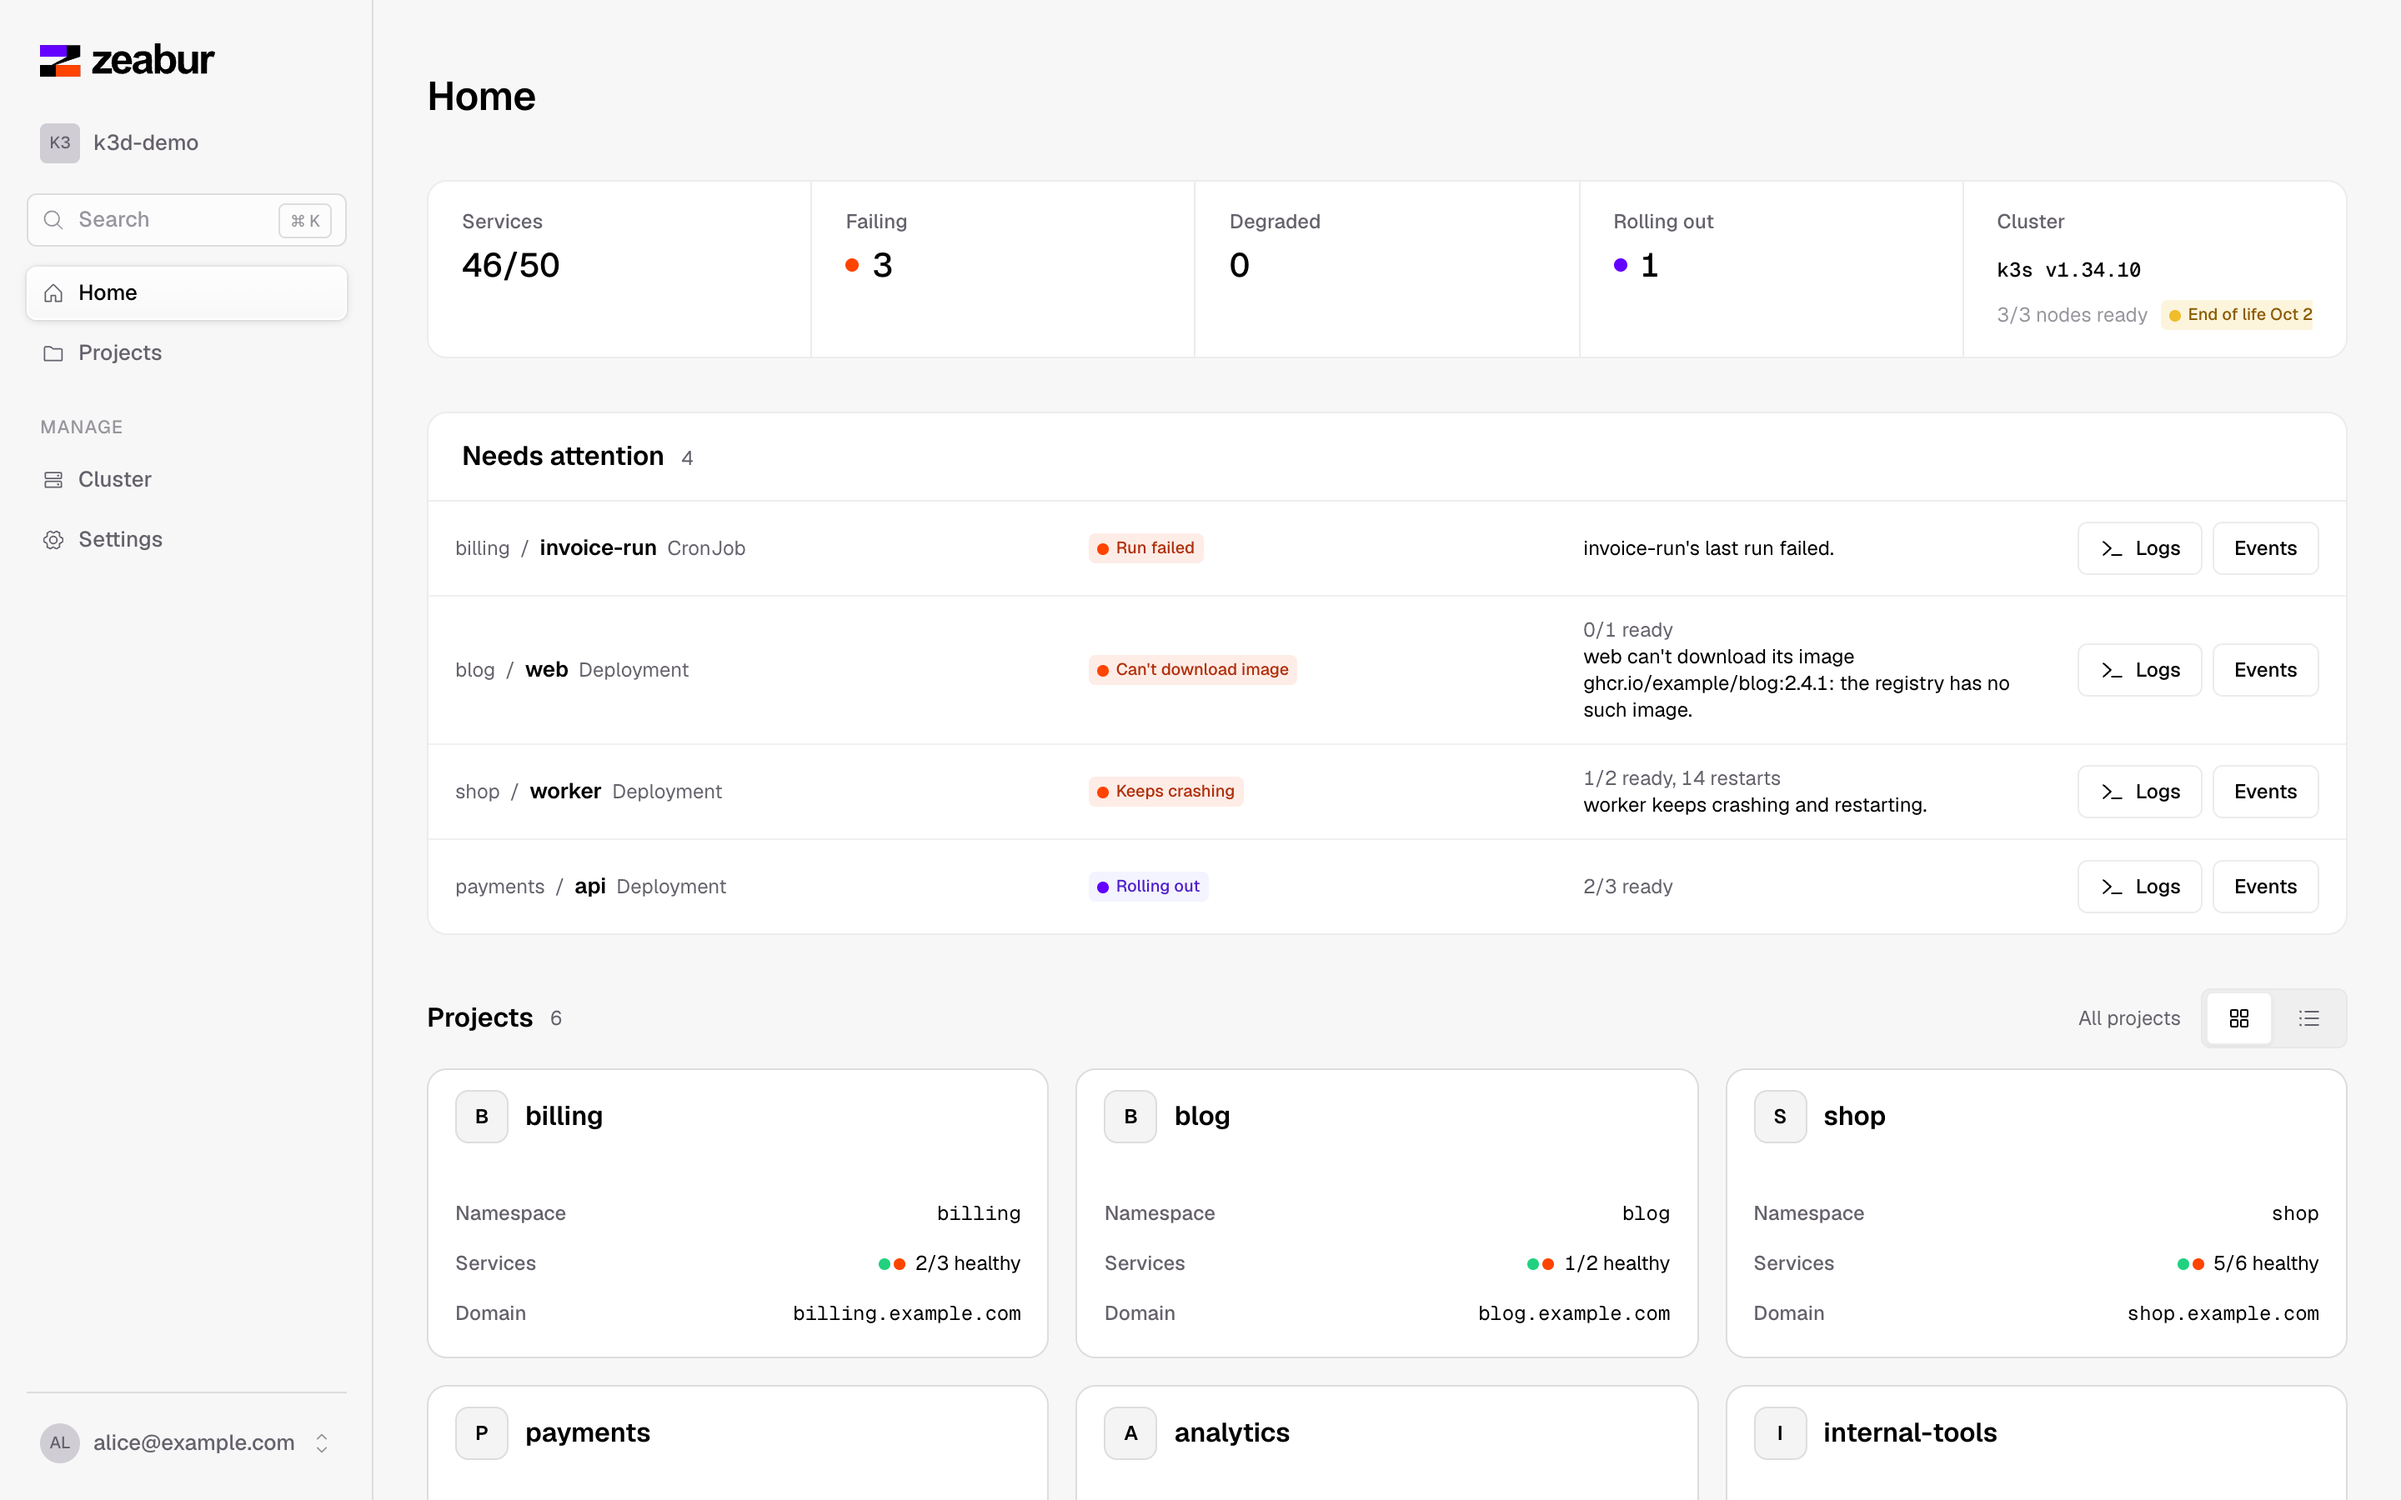
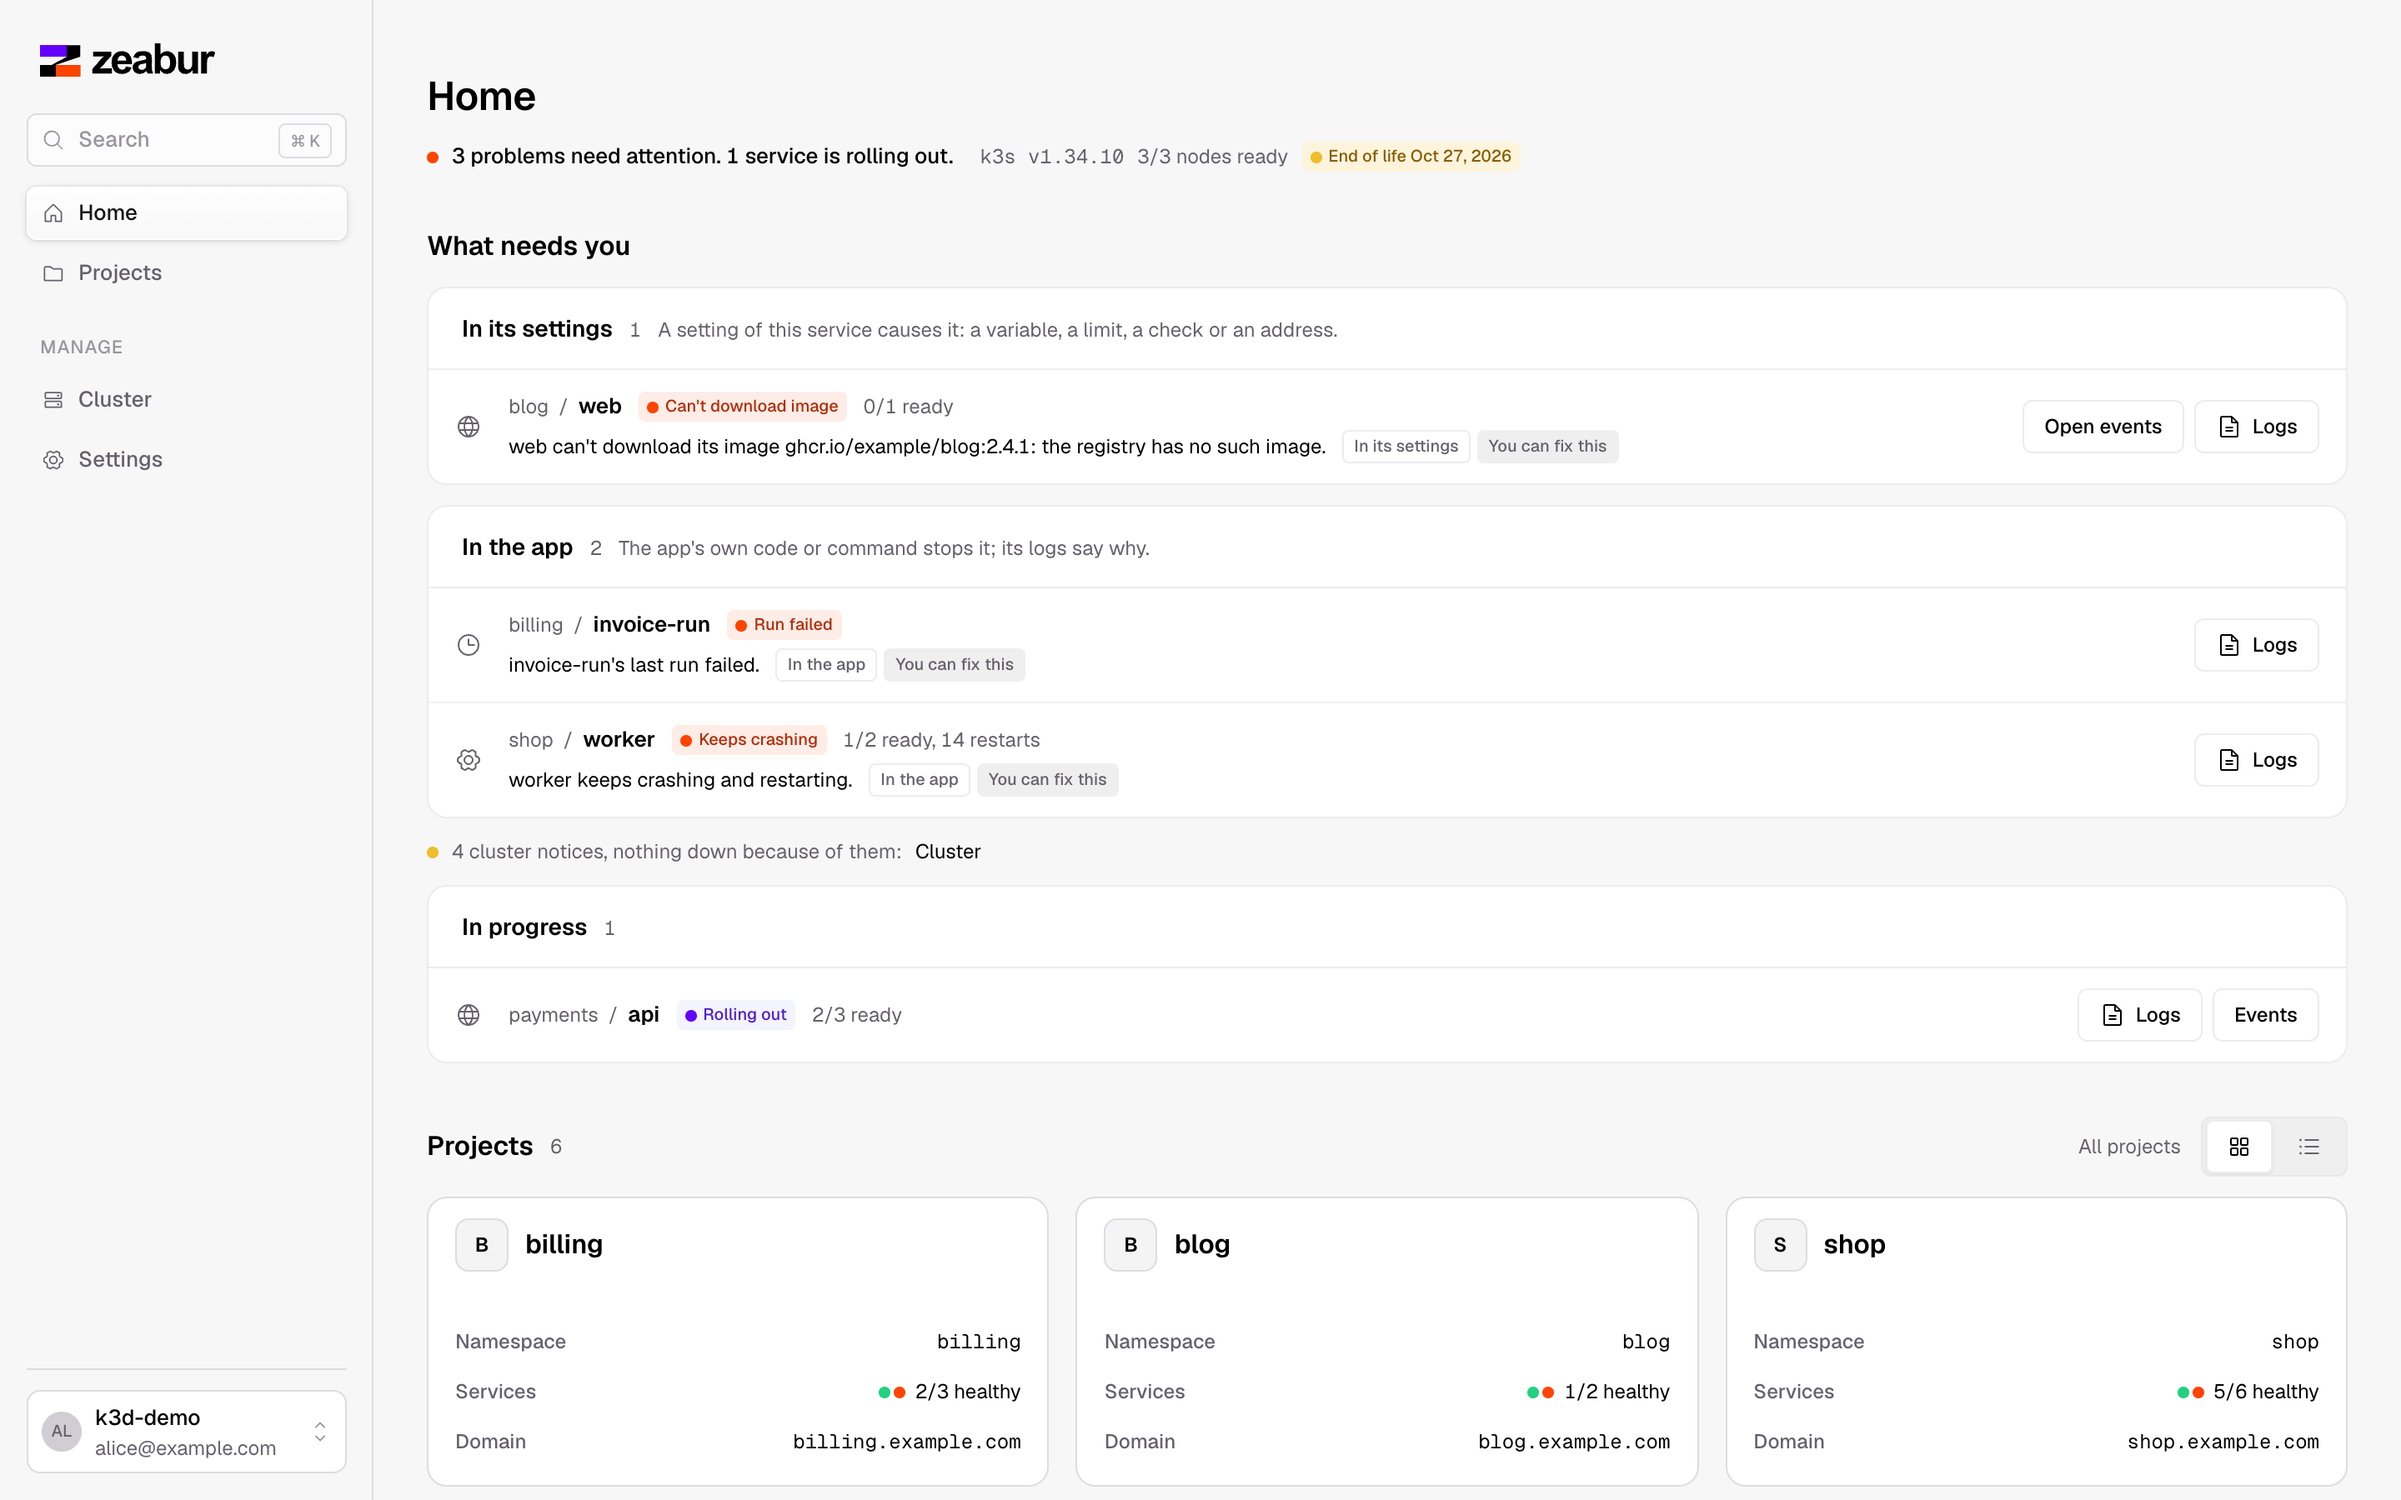
docs: describe the new information architecture
DESIGN.md, the zeabur-ui skill and the README follow the one-page project,
the four service sections and Home's "What needs you". The README screenshots
are retaken from the demo, and the wording guide gains the section, origin and
fixer terms.

diff --git a/README.md b/README.md
@@ -17,15 +17,15 @@ than you have, and keeps no state of its own: no database, no custom resources.
 > on few clusters. Do not point it at a cluster you cannot afford to break.
 
 <p align="center">
-  <img src="docs/images/home.png" alt="Home: what needs attention across all projects, and each project's health as Zeabur's project cards" width="900">
+  <img src="docs/images/home.png" alt="Home: what needs you across all projects, grouped by where each problem comes from, then each project's health" width="900">
 </p>
 
 | | |
 | --- | --- |
-| ![A project's architecture: domains, services and data, with what each depends on](docs/images/architecture.png) | ![A service that keeps crashing, explained in plain words with what to do](docs/images/crash-loop.png) |
-| **Architecture** of a project, from the objects it has. | **Diagnoses** in plain words, with the fix and the evidence. |
-| ![The confirmation before a restart, in one plain sentence](docs/images/plan.png) | |
-| **Every change is a plan** you confirm; the details are one click away. | |
+| ![A project on one page: what needs attention, the map of its domains, services and data, and its recent activity](docs/images/architecture.png) | ![A service that keeps crashing: its Status says why in plain words, where the problem comes from and what to do](docs/images/crash-loop.png) |
+| **One page per project**: a map or a list, with what needs attention and what happened. | **Diagnoses** in plain words, with the fix and the evidence. |
+| ![The confirmation before a restart: what restarts, whether it fits the cluster, in plain sentences](docs/images/plan.png) | |
+| **Every change is a plan** you confirm: what restarts, whether it fits, what data it removes. | |
 
 <sub>Screenshots of the built-in demo data (`cargo run -p zeabur-api --example demo`).</sub>
 

diff --git a/.claude/skills/zeabur-ui/SKILL.md b/.claude/skills/zeabur-ui/SKILL.md
@@ -31,9 +31,14 @@ description: Change Zeabur's web interface (web/: React, TanStack, shadcn/ui on 
   its own name, `~icons/ph/warning-fill`), built at build time from `@iconify-json/ph` by
   unplugin-icons (its JSX compiler, through svgr); decorative ones with `aria-hidden`.
 - **Design.** The frame is the design system's (`AppFrame`, `FrameSidebar`, `Sidebar` with
-  `SidebarPicker`, `SidebarSearch`, `SidebarMenu`, `SidebarCopyPill`), with no top bar; inside a
-  project its own sidebar (`components/shell/project-sidebar.tsx`) replaces the global one. A
-  service page is a header and the segmented `Tabs` in `max-w-content`; projects are cards
+  `SidebarSearch`, `SidebarMenu`, `SidebarCopyPill`, and `ContextChip` at the foot for the
+  cluster, the person and admin rights), with no top bar; inside a project its own sidebar
+  (`components/shell/project-sidebar.tsx`) replaces the global one. Home is "What needs you"
+  (incidents, then problems by origin, each with cause, fixer and fix). A project is one page:
+  Needs attention, then its map or list (`?view`) with Activity, gaps behind "N suggestions". A
+  service page is a header and four segmented `Tabs` (Status, Changes, Configure, Inspect) in
+  `max-w-content`; Configure is one page with a `SectionNav` whose edits collect in a `DraftBar`;
+  an old `?tab=` must keep redirecting (`routes/search.ts`). Projects are cards
   (`components/project-card.tsx`); settings are `SectionLabel` over `Card variant="list"` of
   `CardRow`s. No underline tabs, no "More" menu. Tokens, layout, shell and banned styles are in
   `web/DESIGN.md`; `scripts/check-ui-styles.sh` enforces the bans (including focus rings).

diff --git a/docs/wording.md b/docs/wording.md
@@ -205,6 +205,10 @@ why. Add a row before introducing a new concept.
 | traffic check (readiness) | 就緒檢查 | 就绪检查 | |
 | restart check (liveness) | 存活檢查 | 存活检查 | |
 | light / dark theme | 淺色／深色 | 亮色／暗色 | |
+| Status / Changes / Configure / Inspect (a service's sections) | 狀態／變更／設定／檢查 | 状态／变更／配置／检查 | Inspect holds logs, terminal, metrics, objects and YAML |
+| suggestion (a gap to close) | 建議 | 建议 | |
+| in the app / in its settings / in the cluster (where a problem comes from) | 應用程式本身／服務設定／叢集 | 应用本身／服务配置／集群 | A label beside the problem, never a verdict on its own |
+| you can fix this / needs a cluster admin (who can fix it) | 你可以修正／需要叢集管理員 | 你可以修复／需要集群管理员 | |
 | public domain | 公開網域 | 公开域名 | An Ingress or HTTPRoute host; the dashboard's 公有網路 names the network, not the address |
 | private network | 私有網路 | 私有网络 | Reaching a service from inside the cluster through its `Service`; the dashboard says 內網 |
 | private address | 私有位址 | 私有地址 | A `Service` DNS name and port; never 內部位址 |
